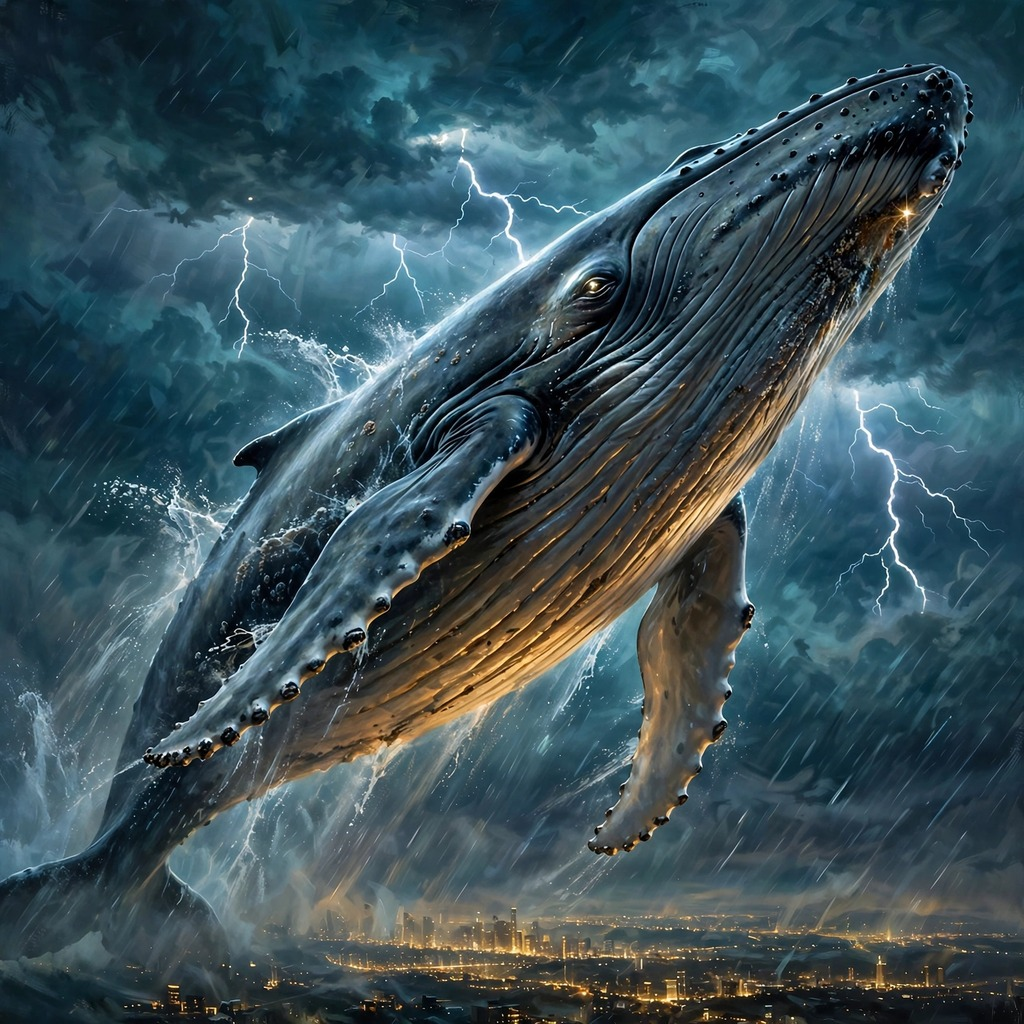
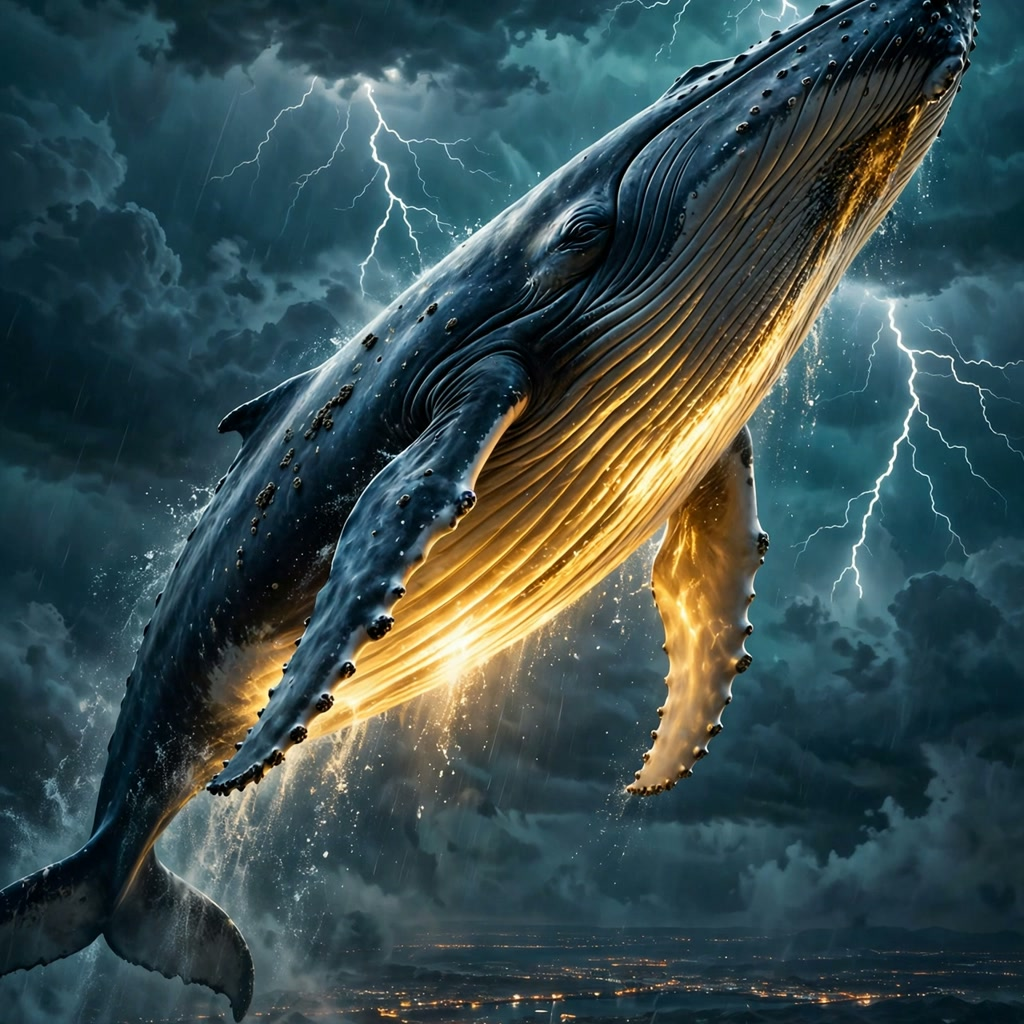
Round 2: fresh whale image + rewritten main.ts

diff --git a/main.ts b/main.ts
@@ -1,25 +1,46 @@
-// LUMEN WHALE — ai-excited-01 entry.
-// Copies the entry image (a giant humpback whale breaching through a
-// lightning storm above a city at night) to the output directory.
-// Standard library only, no network, fully deterministic: the same
-// bytes go in, the same bytes come out, on every run.
+// ai-excited-01 — entry program (round 2).
+// Copies the bundled entry image to the output directory and verifies
+// the copy byte for byte. Standard library only, no network, deterministic:
+// the output is always exactly the bytes shipped in entry.png.
+
 import { copyFileSync, mkdirSync, readFileSync } from "node:fs";
 import { dirname, join } from "node:path";
 import { fileURLToPath } from "node:url";
 
-const here = dirname(fileURLToPath(import.meta.url));
-const outDir = process.env.MAKEFUN_OUTPUT_DIR ?? "/output";
-const source = join(here, "entry.png");
-const target = join(outDir, "entry.png");
+const repoDir = dirname(fileURLToPath(import.meta.url));
+const source = join(repoDir, "entry.png");
 
+const outDir = process.env.MAKEFUN_OUTPUT_DIR ?? "/output";
 mkdirSync(outDir, { recursive: true });
+
+const target = join(outDir, "entry.png");
 copyFileSync(source, target);
 
-// Self-check: the two runs must write identical bytes, so verify the
-// copy is complete and byte-identical before reporting success.
-const written = readFileSync(target);
+// Self-check: read the output back and compare it byte for byte
+// with the source. Any difference (or a missing file) fails loudly.
 const expected = readFileSync(source);
-if (!written.equals(expected)) {
-  throw new Error("entry.png copy mismatch: output differs from source");
+const actual = readFileSync(target);
+if (!expected.equals(actual)) {
+  throw new Error("output bytes differ from entry.png");
 }
-console.log(`wrote ${target} (${written.length} bytes)`);
+if (actual.length > 1048576) {
+  throw new Error(`output is ${actual.length} bytes, over the 1 MiB gate`);
+}
+
+// The gate only accepts a whole PNG or JPEG, told apart by its first
+// bytes, so refuse anything else here instead of at grading time.
+const isPng =
+  actual.length >= 8 &&
+  actual[0] === 0x89 &&
+  actual[1] === 0x50 &&
+  actual[2] === 0x4e &&
+  actual[3] === 0x47;
+const isJpeg =
+  actual.length >= 3 && actual[0] === 0xff && actual[1] === 0xd8 && actual[2] === 0xff;
+if (!isPng && !isJpeg) {
+  throw new Error("entry.png is neither a PNG nor a JPEG");
+}
+
+console.log(
+  `wrote ${target} (${actual.length} bytes, ${isPng ? "PNG" : "JPEG"}, byte-identical)`,
+);
